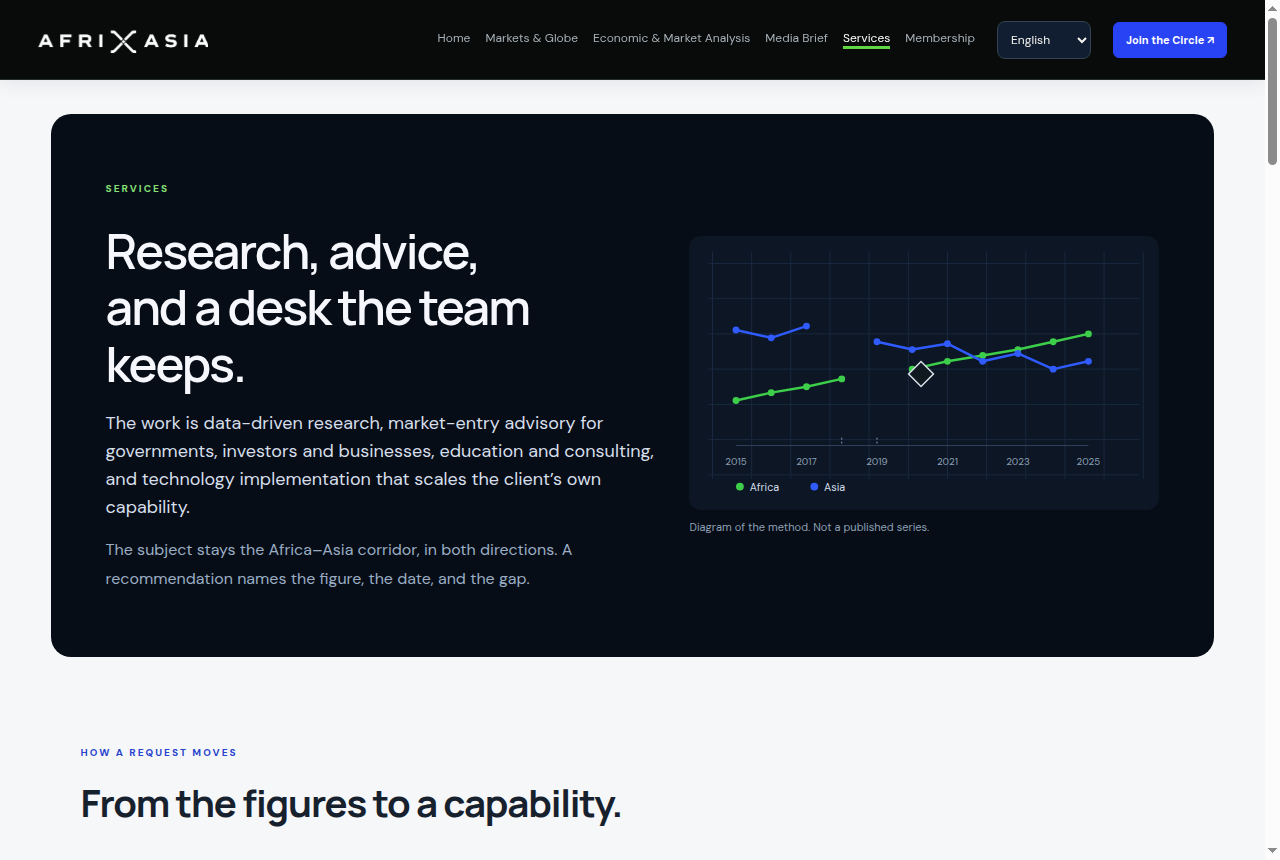
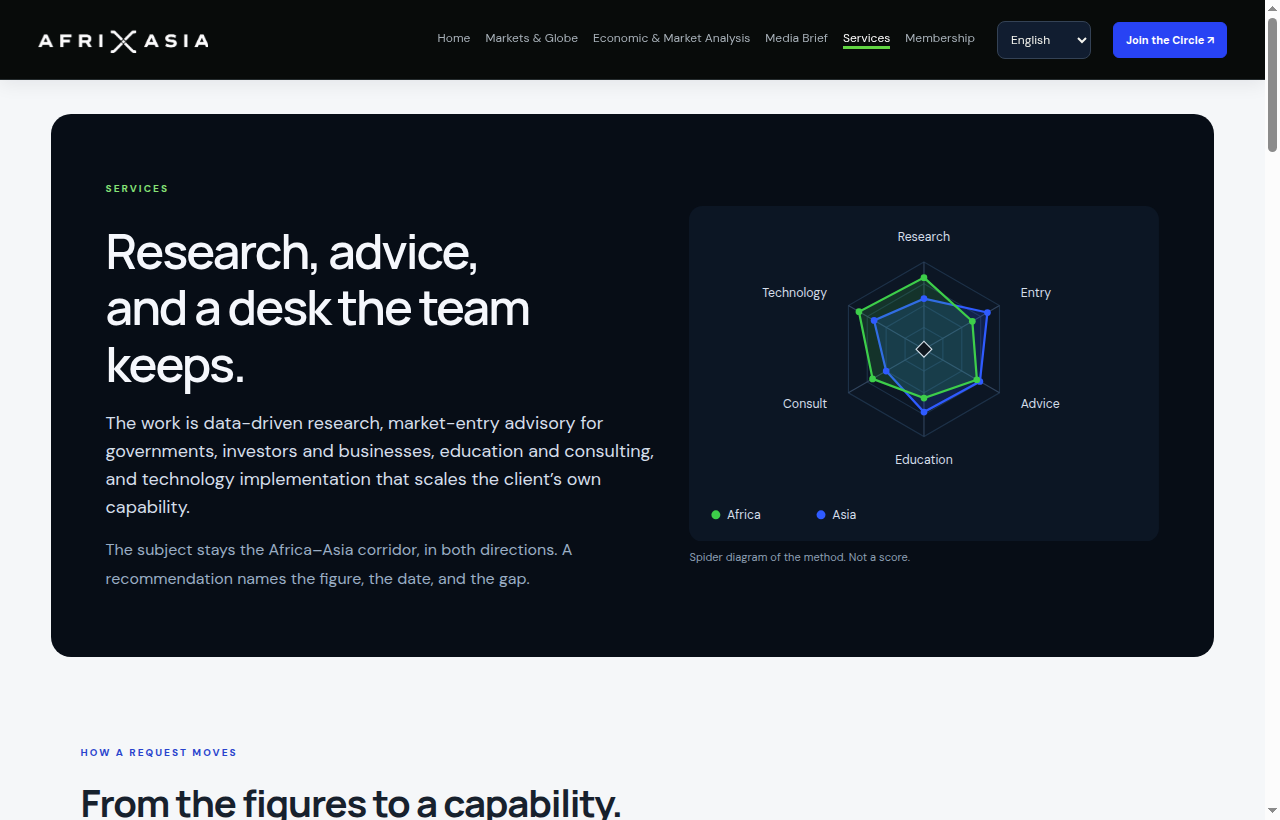
Replace the corridor hero chart with a spider diagram.
Show Africa and Asia across six kinds of work, and keep the figure labeled as a method diagram rather than a score.

diff --git a/src/components/ServiceVisuals.jsx b/src/components/ServiceVisuals.jsx
@@ -1,68 +1,67 @@
-export function CorridorDiagram({ label, caption, africaLabel, asiaLabel }) {
-  const years = [2015, 2016, 2017, 2018, 2019, 2020, 2021, 2022, 2023, 2024, 2025];
-  const africa = [168, 160, 154, 146, null, 136, 128, 122, 116, 108, 100];
-  const asia = [96, 104, 92, null, 108, 116, 110, 128, 120, 136, 128];
-  const x = (index) => 48 + index * 36;
-  const segments = (series, color) =>
-    series.slice(1).map((value, index) => {
-      const previous = series[index];
-      if (value == null || previous == null) return null;
-      return (
-        <line
-          key={`${color}-${years[index]}`}
-          x1={x(index)}
-          y1={previous}
-          x2={x(index + 1)}
-          y2={value}
-          stroke={color}
-          strokeWidth="2.5"
-          strokeLinecap="round"
-        />
-      );
-    });
+export function CorridorDiagram({ label, caption, africaLabel, asiaLabel, axes }) {
+  const cx = 210;
+  const cy = 128;
+  const radius = 78;
+  const africa = [0.82, 0.64, 0.7, 0.56, 0.68, 0.86];
+  const asia = [0.58, 0.84, 0.74, 0.72, 0.5, 0.66];
+  const point = (index, scale) => {
+    const angle = -Math.PI / 2 + (index * 2 * Math.PI) / axes.length;
+    return [cx + Math.cos(angle) * radius * scale, cy + Math.sin(angle) * radius * scale];
+  };
+  const polygon = (values) =>
+    `${values
+      .map((value, index) => {
+        const [x, y] = point(index, value);
+        return `${index === 0 ? "M" : "L"}${x.toFixed(1)} ${y.toFixed(1)}`;
+      })
+      .join(" ")} Z`;
 
   return (
     <figure className="corridor-figure">
-      <svg viewBox="0 0 480 280" role="img" aria-label={label}>
+      <svg viewBox="0 0 420 300" role="img" aria-label={label}>
         <title>{label}</title>
-        <rect width="480" height="280" rx="12" fill="#0c1624" />
-        {Array.from({ length: 12 }, (_, index) => (
-          <line key={`v${index}`} x1={24 + index * 40} x2={24 + index * 40} y1="16" y2="248" stroke="#1a2940" />
+        <rect width="420" height="300" rx="12" fill="#0c1624" />
+        {[1, 0.75, 0.5, 0.25].map((level) => (
+          <polygon
+            key={level}
+            points={axes
+              .map((_, index) => point(index, level).map((value) => value.toFixed(1)).join(","))
+              .join(" ")}
+            fill="none"
+            stroke="#1d3148"
+          />
         ))}
-        {Array.from({ length: 7 }, (_, index) => (
-          <line key={`h${index}`} x1="20" x2="460" y1={28 + index * 36} y2={28 + index * 36} stroke="#1a2940" />
-        ))}
-        <line x1="48" x2="408" y1="214" y2="214" stroke="#31445d" />
-        {segments(africa, "#3dce4a")}
-        {segments(asia, "#2f5bff")}
-        {africa.map((value, index) =>
-          value == null ? (
-            <line key={`gap-a-${index}`} x1={x(index)} x2={x(index)} y1="206" y2="214" stroke="#8ea0b5" strokeDasharray="2 2" />
-          ) : (
-            <circle key={`a-${index}`} cx={x(index)} cy={value} r="3.5" fill="#3dce4a" />
-          ),
-        )}
-        {asia.map((value, index) =>
-          value == null ? (
-            <line key={`gap-s-${index}`} x1={x(index)} x2={x(index)} y1="206" y2="214" stroke="#8ea0b5" strokeDasharray="2 2" />
-          ) : (
-            <circle key={`s-${index}`} cx={x(index)} cy={value} r="3.5" fill="#2f5bff" />
-          ),
-        )}
-        <rect x="228" y="132" width="18" height="18" transform="rotate(45 237 141)" fill="#101820" stroke="#d7e2ea" strokeWidth="1.5" />
-        {years.map((year, index) =>
-          index % 2 === 0 ? (
-            <text key={year} x={x(index)} y="234" textAnchor="middle" fill="#8ea0b5" fontSize="10" fontFamily="DM Sans, sans-serif">
-              {year}
-            </text>
-          ) : null,
-        )}
-        <circle cx="52" cy="256" r="4" fill="#3dce4a" />
-        <text x="62" y="260" fill="#d5deea" fontSize="11" fontFamily="DM Sans, sans-serif">
+        {axes.map((axis, index) => {
+          const [x, y] = point(index, 1);
+          const [lx, ly] = point(index, 1.28);
+          const angle = -Math.PI / 2 + (index * 2 * Math.PI) / axes.length;
+          const anchor = Math.cos(angle) > 0.35 ? "start" : Math.cos(angle) < -0.35 ? "end" : "middle";
+          return (
+            <g key={axis}>
+              <line x1={cx} y1={cy} x2={x} y2={y} stroke="#31445d" />
+              <text x={lx} y={ly} textAnchor={anchor} dominantBaseline="middle" fill="#d5deea" fontSize="11" fontFamily="DM Sans, sans-serif">
+                {axis}
+              </text>
+            </g>
+          );
+        })}
+        <path d={polygon(asia)} fill="rgba(47,91,255,0.18)" stroke="#2f5bff" strokeWidth="2" />
+        <path d={polygon(africa)} fill="rgba(61,206,74,0.16)" stroke="#3dce4a" strokeWidth="2" />
+        {asia.map((value, index) => {
+          const [x, y] = point(index, value);
+          return <circle key={`asia-${axes[index]}`} cx={x} cy={y} r="3" fill="#2f5bff" />;
+        })}
+        {africa.map((value, index) => {
+          const [x, y] = point(index, value);
+          return <circle key={`africa-${axes[index]}`} cx={x} cy={y} r="3" fill="#3dce4a" />;
+        })}
+        <rect x={cx - 5} y={cy - 5} width="10" height="10" transform={`rotate(45 ${cx} ${cy})`} fill="#101820" stroke="#d7e2ea" />
+        <circle cx="24" cy="276" r="4" fill="#3dce4a" />
+        <text x="34" y="280" fill="#d5deea" fontSize="11" fontFamily="DM Sans, sans-serif">
           {africaLabel}
         </text>
-        <circle cx="128" cy="256" r="4" fill="#2f5bff" />
-        <text x="138" y="260" fill="#d5deea" fontSize="11" fontFamily="DM Sans, sans-serif">
+        <circle cx="118" cy="276" r="4" fill="#2f5bff" />
+        <text x="128" y="280" fill="#d5deea" fontSize="11" fontFamily="DM Sans, sans-serif">
           {asiaLabel}
         </text>
       </svg>

diff --git a/src/pages/ServicesPage.jsx b/src/pages/ServicesPage.jsx
@@ -218,17 +218,25 @@ export default function ServicesPage() {
           </div>
           <CorridorDiagram
             label={t(
-              "Schematic of an Africa–Asia series with a missing year left open",
-              "Skema seri Afrika–Asia dengan tahun yang kosong dibiarkan terbuka",
-              "Schéma d’une série Afrique–Asie dont une année manquante reste ouverte",
+              "Spider diagram of the Africa–Asia method across six kinds of work",
+              "Diagram laba-laba metode Afrika–Asia pada enam jenis pekerjaan",
+              "Diagramme en toile de la méthode Afrique–Asie sur six types de travail",
             )}
             caption={t(
-              "Diagram of the method. Not a published series.",
-              "Diagram metode. Bukan seri yang terbit.",
-              "Schéma de la méthode. Pas une série publiée.",
+              "Spider diagram of the method. Not a score.",
+              "Diagram laba-laba metode. Bukan skor.",
+              "Diagramme en toile de la méthode. Pas un score.",
             )}
             africaLabel={t("Africa", "Afrika", "Afrique")}
             asiaLabel={t("Asia", "Asia", "Asie")}
+            axes={[
+              t("Research", "Riset", "Recherche"),
+              t("Entry", "Masuk", "Entrée"),
+              t("Advice", "Saran", "Avis"),
+              t("Education", "Didik", "Formation"),
+              t("Consult", "Konsultasi", "Conseil"),
+              t("Technology", "Teknologi", "Techno"),
+            ]}
           />
         </section>
 
